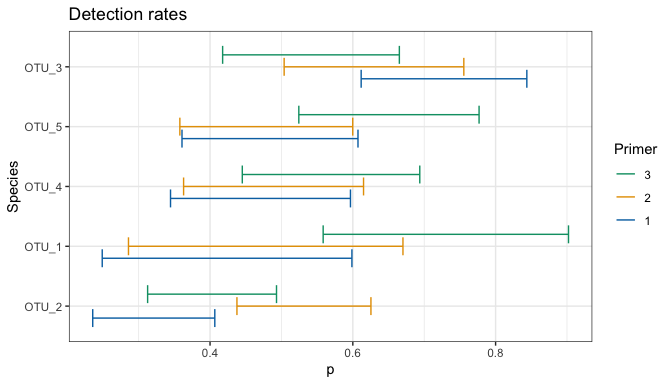
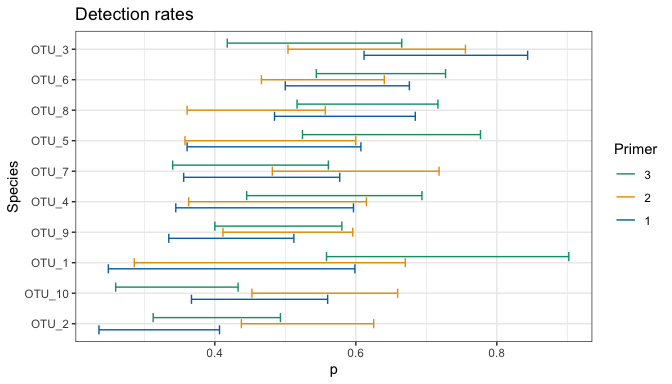
Answer Doug's quickstart review comments
Correct the replicate count (K = 2, not 1), stop View() running at
render time, explain summary(), add a plotTraceplot() example, explain
the spatial-block warnings from runOccJSDM(), name the parameters behind
the occupancy and detection plots, and tighten the primer comparison.
Re-render the tracked markdown.

diff --git a/vignettes/occJSDM.md b/vignettes/occJSDM.md
@@ -1,13 +1,15 @@
 occJSDM: quickstart
 ================
 
-`occJSDM` estimates which species occupy which sites from eDNA surveys. It allows for false negatives (from imperfect field collection, imperfect PCR detection or both) and for false positives (from contamination in the field, in the lab or both). It models the species jointly: their responses to the environment, the role of their traits, and associations between species that the covariates do not explain, optionally with a spatial field. It can also analyse ordinary presence/absence surveys, in which each species is recorded as present or absent at each site and the records are assumed to be free of detection error. In that case `occJSDM` fits only a joint species distribution model (JSDM).
+<!--# occJSDM.Rmd sorts to the bottom in the Files window. Because it is a quickstart, it should have a filename that sorts it to the top, so that it is one of the first things that a student sees. -->
+
+occJSDM uses eDNA surveys to estimate which species occupy which sites. It allows for false negatives (from imperfect field collection, imperfect PCR detection or both) and for false positives (from contamination in the field, in the lab or both). It models the species jointly: their responses to the environment, the role of their traits, and associations between species that the covariates do not explain, optionally with a spatial field, although note that the spatial field submodel requires considerable field data. It can also analyse ordinary presence/absence surveys, in which each species is recorded as present or absent at each site and the records are assumed to be free of detection error. In that case occJSDM fits only the joint species distribution model (JSDM).
 
 This quickstart shows how the input data must be structured, makes a fitting call and takes a first look at the output, using the example data shipped with the package.
 
 ## The example data
 
-`sampledata` is a simulated two-stage eDNA survey of 10 species at 100 sites, stored as an R list. Each site has three field samples, and each sample was tested with three primers, twice each.
+`sampledata` is a simulated two-stage eDNA survey of 10 species at 100 sites, stored as an R list. Each site has `M = 3` field samples, and each sample was tested with `P = 3` primers, with `K = 2` PCR replicates per sample-primer combination.
 
 ``` r
 library(occJSDM)
@@ -69,12 +71,23 @@ head(sampledata$traits)
 It has three parts:
 
 - `info` has one row per PCR reaction: the `Site`, the field `Sample` the DNA came from, the `Primer`, and the covariates. Columns beginning `X_psi.` are occupancy covariates, columns beginning `X_theta.` are collection covariates, and `Xs.1` and `Xs.2` are the site coordinates.
-- `OTU` has one column per species and one row for each row of `info`, holding that species’ read count in that reaction. Read counts can be supplied as they are, without converting the OTU table first: `runOccJSDM()` converts each count to a detection or non-detection, and a PCR reaction with at least `threshold` reads counts as a detection.
+- Look at the `info` dataframe in detail. How many rows are there per site? Why?
+
+``` r
+View(sampledata$info)
+```
+
+- `OTU` has one column per species and one row for each row of `info`, holding that species’ read count in that reaction. Read counts can be supplied as they are, without converting the OTU table: `runOccJSDM()` converts each count to a binary (detection or non-detection), and a PCR reaction with at least `threshold` reads counts as a detection.
+
 - `traits` has one row per species.
 
 `runOccJSDM()` uses the structure of `info` to choose which model to fit. Here each sample has several rows, one per primer and PCR replicate, so it fits the two-stage occupancy model. If instead `info` had only one row per site, with no sample or PCR replicates, `runOccJSDM()` would skip the detection stages and fit a JSDM to the observed presence/absence.
 
 ## Fit the model
+
+You can either load the precomputed model results from `sampleresults` or fit the model live. Fitting live will take up to several minutes depending on your machine but has the advantage of testing whether your machine can run occJSDM. On the other hand, using the same seed number only produces *exactly* the same results as in `sampleresults` if run on the same machine and software (M4 MacBook Air, macOS 27.0.1, R 4.5.0) and with the same model arguments (priors, number of chains). Running on a different platform could result in small numerical differences.
+
+Choose this option
 
 ``` r
 set.seed(20261007)
@@ -91,14 +104,15 @@ fit <- runOccJSDM(
 )
 ```
 
-- `threshold`: a reaction with at least this many reads counts as a detection.
-- `occCovariates`, `collCovariates` and `spatCovariates` name the columns of `info` to use for occupancy, for collection and for the spatial field. The species traits are taken from `sampledata$traits`.
+- `threshold`: a reaction with at least this many reads counts as a detection. This is the recommended default.
+- `occCovariates`, `collCovariates` and `spatCovariates` name the columns in `info` to use for occupancy, for collection and for the spatial field.
   - The example includes the `spatCovariates` line to show how the full model is specified. The beta’s spatial model is very underpowered, though, so we recommend leaving that line out of your own fits for now.
+- The optional species trait data are taken from `sampledata$traits`.
 - `n_factors` is the number of latent factors that capture associations between species.
 - `MCMCparams` sets the number of chains, the burn-in and kept iterations, and the thinning.
 - The priors have defaults, which `listPriors` changes. `?runOccJSDM` describes every argument.
 
-This chunk is not run while the vignette is built, because the fit takes several minutes. The package ships its result as `sampleresults`, which the rest of this guide uses. The beta example was refitted with the current package using the seed above, the default priors and one requested computation thread. A fixed seed reproduces the fit on the same software and platform; small numerical differences can occur on other platforms.
+Or choose this option. The rest of the lesson uses these precomputed results.
 
 ``` r
 fit <- sampleresults
@@ -137,29 +151,82 @@ head(diagnostics[order(-diagnostics$rhat), c("param", "label1", "label2", "rhat"
     #> 5 beta_theta (Intercept)    OTU_7   1.03  807.
     #> 6 beta_psi   X_psi.EnvCov.2 OTU_5   1.03  148.
 
-`rhat` compares the chains with each other: values close to 1 mean they agree, and larger values call for longer runs or a closer look at the parameters concerned. `ess` is the effective number of independent draws behind each estimate. The table covers the occupancy and detection coefficients; `plotTraceplot()` shows the chains themselves.
+`summary()` is base R’s own function, not occJSDM’s, so its help page is `?base::summary`. For a numeric column it reports the minimum, the quartiles, the mean and the maximum.
 
-The shipped run still has 35 of its 130 reported coefficients above `rhat = 1.01` or below `ess = 400`. Its largest reported Rhat is about 1.083, for the field false-positive rate of `OTU_3`, and fitting also raised warnings about the spatial coefficients. The plots below demonstrate the output functions. Before interpreting flagged estimates in a scientific analysis, run longer chains and check them again; more iterations do not guarantee that the chains will agree.
+To browse the whole table, sorted with the worst `rhat` first:
 
-The field-contamination rate `theta0` has a Beta(1,20) prior. Its 95% intervals contained the truth 97-98% of the time in targeted low-contamination, non-spatial simulations; coverage in other surveys remains unestablished. Keep the current prior for the beta release, and read wide intervals together with chain diagnostics and prior sensitivity. See the [Known limitations](https://github.com/AlexDiana/occJSDM#known-limitations) and the field-contamination uncertainty section in `?runOccJSDM`.
+``` r
+View(diagnostics[order(-diagnostics$rhat), c("param", "label1", "label2", "rhat", "ess")])
+```
+
+`rhat` compares the chains with each other: values close to 1 mean they agree, and larger values call for longer runs or a closer look at the parameters concerned.
+
+`ess` is the effective number of independent draws behind each estimate. The table covers the occupancy and detection coefficients.
+
+A common rule of thumb flags any coefficient with `rhat > 1.01` or `ess < 400`:
+
+``` r
+nonconvergedcoefs <- diagnostics[order(-diagnostics$rhat), c("param", "label1", "label2", "rhat", "ess")] |>
+  dplyr::filter(rhat > 1.01 | ess < 400)
+nrow(nonconvergedcoefs)
+```
+
+    #> [1] 35
+
+``` r
+head(nonconvergedcoefs)
+```
+
+    #> # A tibble: 6 × 5
+    #>   param      label1         label2  rhat   ess
+    #>   <chr>      <chr>          <chr>  <dbl> <dbl>
+    #> 1 theta0     OTU_3          1       1.08  269.
+    #> 2 theta0     OTU_5          1       1.04  240.
+    #> 3 beta_psi   X_psi.EnvCov.2 OTU_7   1.04  151.
+    #> 4 beta0_psi  OTU_6          1       1.04  418.
+    #> 5 beta_theta (Intercept)    OTU_7   1.03  807.
+    #> 6 beta_psi   X_psi.EnvCov.2 OTU_5   1.03  148.
+
+In this quickstart example, 35 of the 130 reported coefficients are flagged, which means that they are deemed not to have converged (i.e. are not reliable). The largest `rhat` is about 1.083, for the field false-positive rate (`theta0`) of `OTU_3`.
+
+`plotTraceplot()` shows the chains themselves. Here are the `theta0` draws for `OTU_3` and, for comparison, `OTU_1`, whose `rhat` is 1.00:
+
+``` r
+theta0_draws <- fit$results_output$theta0_output
+plotTraceplot(theta0_draws[c(3, 1), , , drop = FALSE],
+              param_name = "theta0",
+              dimnames1 = fit$infos$speciesNames[c(3, 1)])
+```
+
+![](occJSDM_files/figure-gfm/traceplot-1.png)<!-- -->
+
+For `OTU_1` the two chains overlap throughout. For `OTU_3`, chain 1 wanders upwards near the end of the run while chain 2 does not, and that disagreement is what `rhat` measures.
+
+The table does not cover every parameter. When it finishes, `runOccJSDM()` checks each block of parameters and warns about any block whose largest `rhat` exceeds 1.1 or whose smallest `ess` is below 50. For this fit it warned about the spatial-field coefficients (`Bs`) and the trait terms attached to them (`Gs`, `As`, `Cs`). You see these warnings only if you fit live, and they are another reason to leave the spatial field out of your own fits for now.
+
+Normally, before going on, you would run longer chains and check them again, but note that more iterations do not guarantee that the chains will agree.
+
+For the purposes of this quickstart lesson, we move now to the results.
 
 ## Look at the results
 
-Each species’ baseline occupancy probability, with its credible interval:
+Each species’ baseline occupancy probability, with its 95% credible interval. This is `beta0_psi` in the diagnostics table, converted from the logit scale to a probability; `returnOccupancyRates()` returns the draws.
 
 ``` r
-plotOccupancyRates(fit, idx_species = 1:5)
+plotOccupancyRates(fit, idx_species = 1:10)
 ```
 
 ![](occJSDM_files/figure-gfm/occupancy-1.png)<!-- -->
 
-Each species’ probability, for each primer, that a PCR reaction detects its DNA when that DNA is present in the sample:
+Each species’ probability, for each primer, that a PCR reaction detects its DNA when that DNA is present in the sample. This is `p` in the diagnostics table:
 
 ``` r
-plotDetectionRates(fit, idx_species = 1:5)
+plotDetectionRates(fit, idx_species = 1:10)
 ```
 
 ![](occJSDM_files/figure-gfm/detection-1.png)<!-- -->
+
+In this example, no primer is best for every species. Primer 3 has the highest detection rate for `OTU_1`, with an interval that barely overlaps primer 1’s, but it is clearly worse than primer 2 at detecting `OTU_10`.
 
 The package’s other `plot...()` and `return...()` functions cover covariate effects, collection and false-positive rates, species associations, ordination, variation partitioning and prediction at new sites. Each has its own help page.
 
